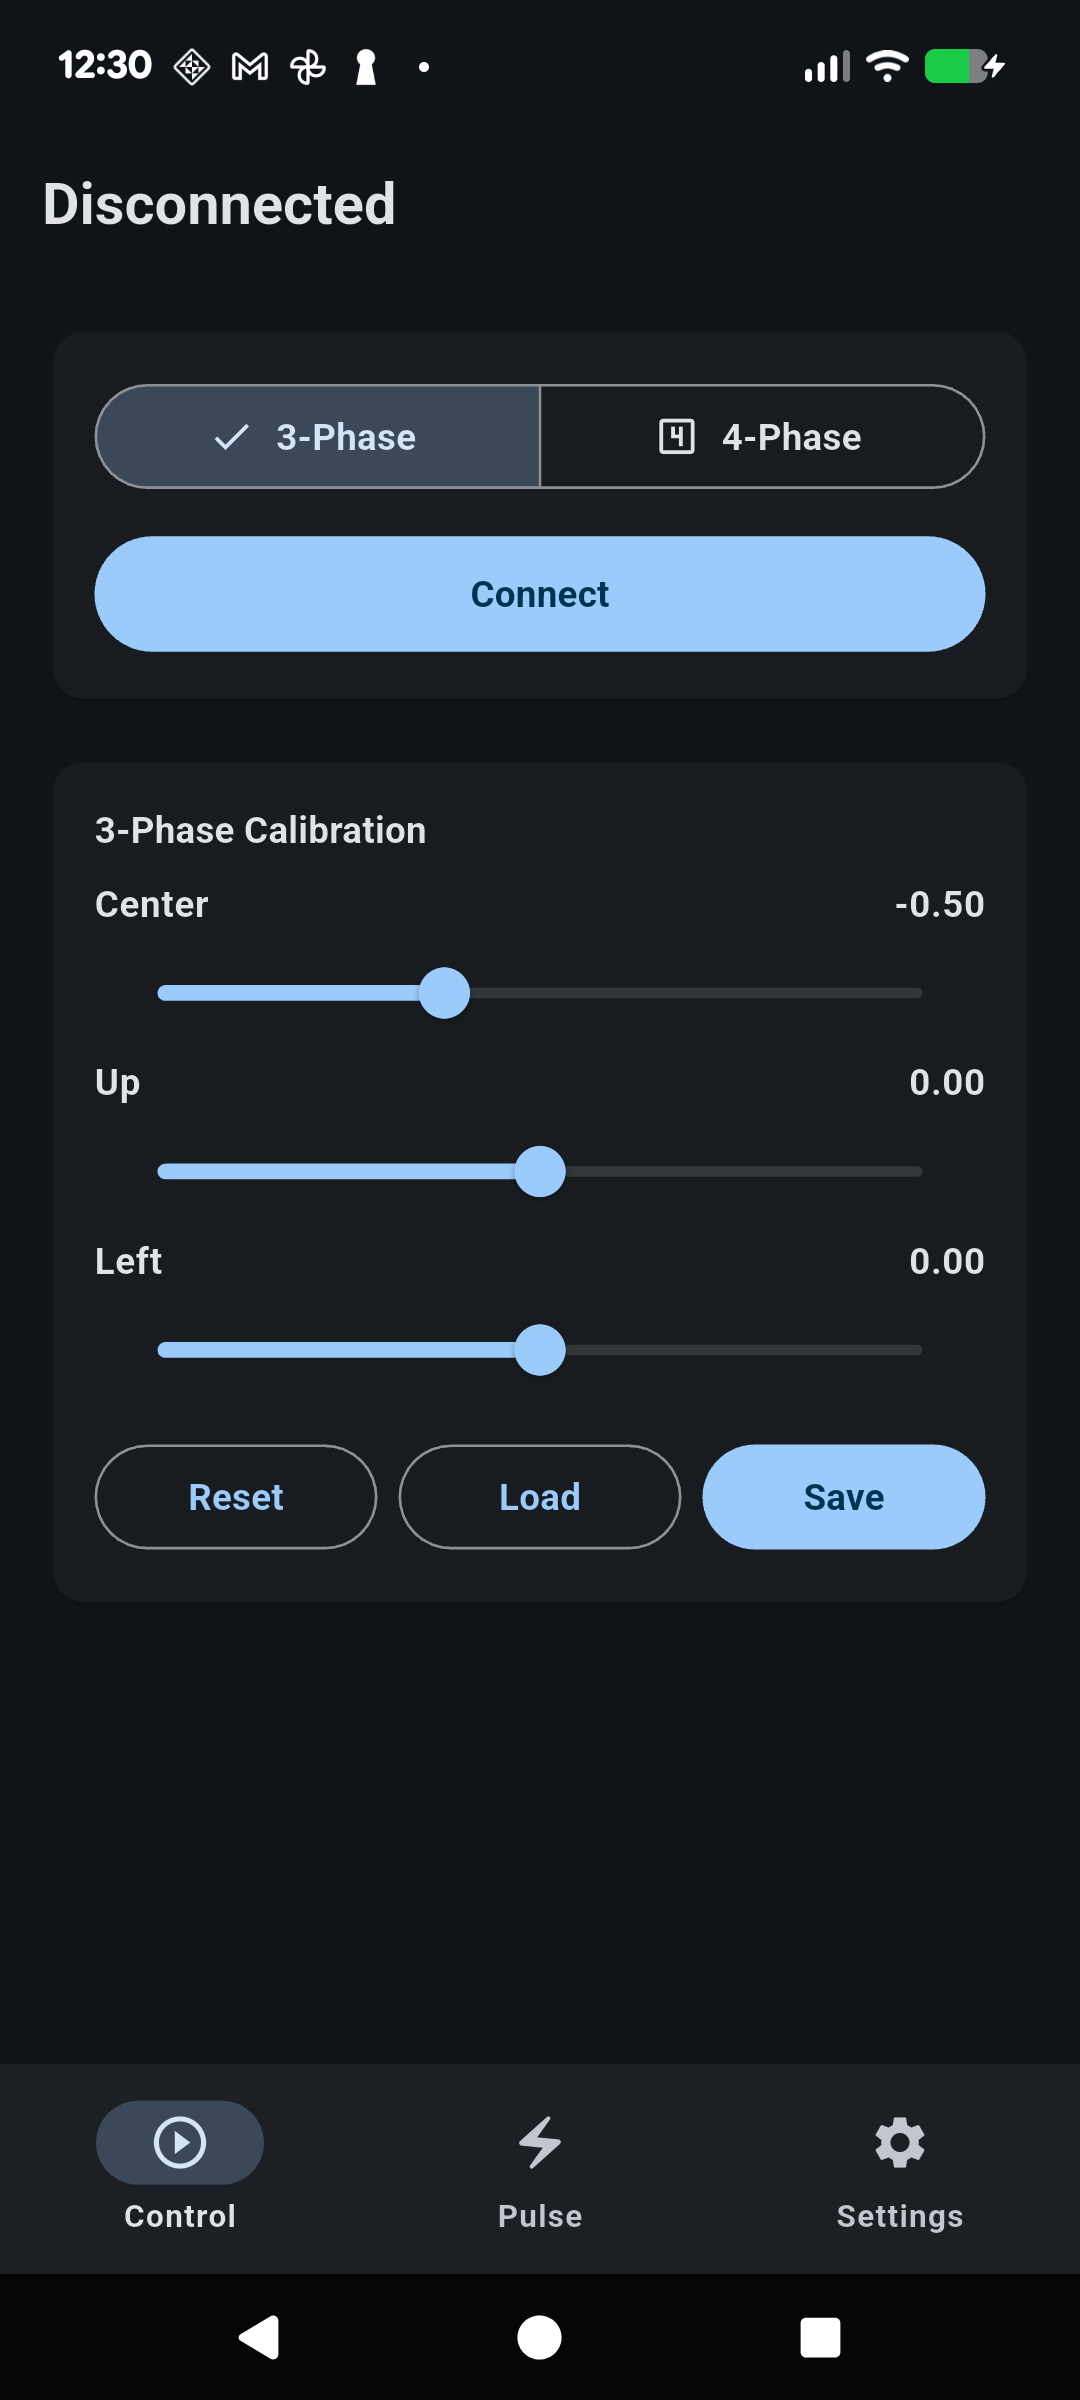
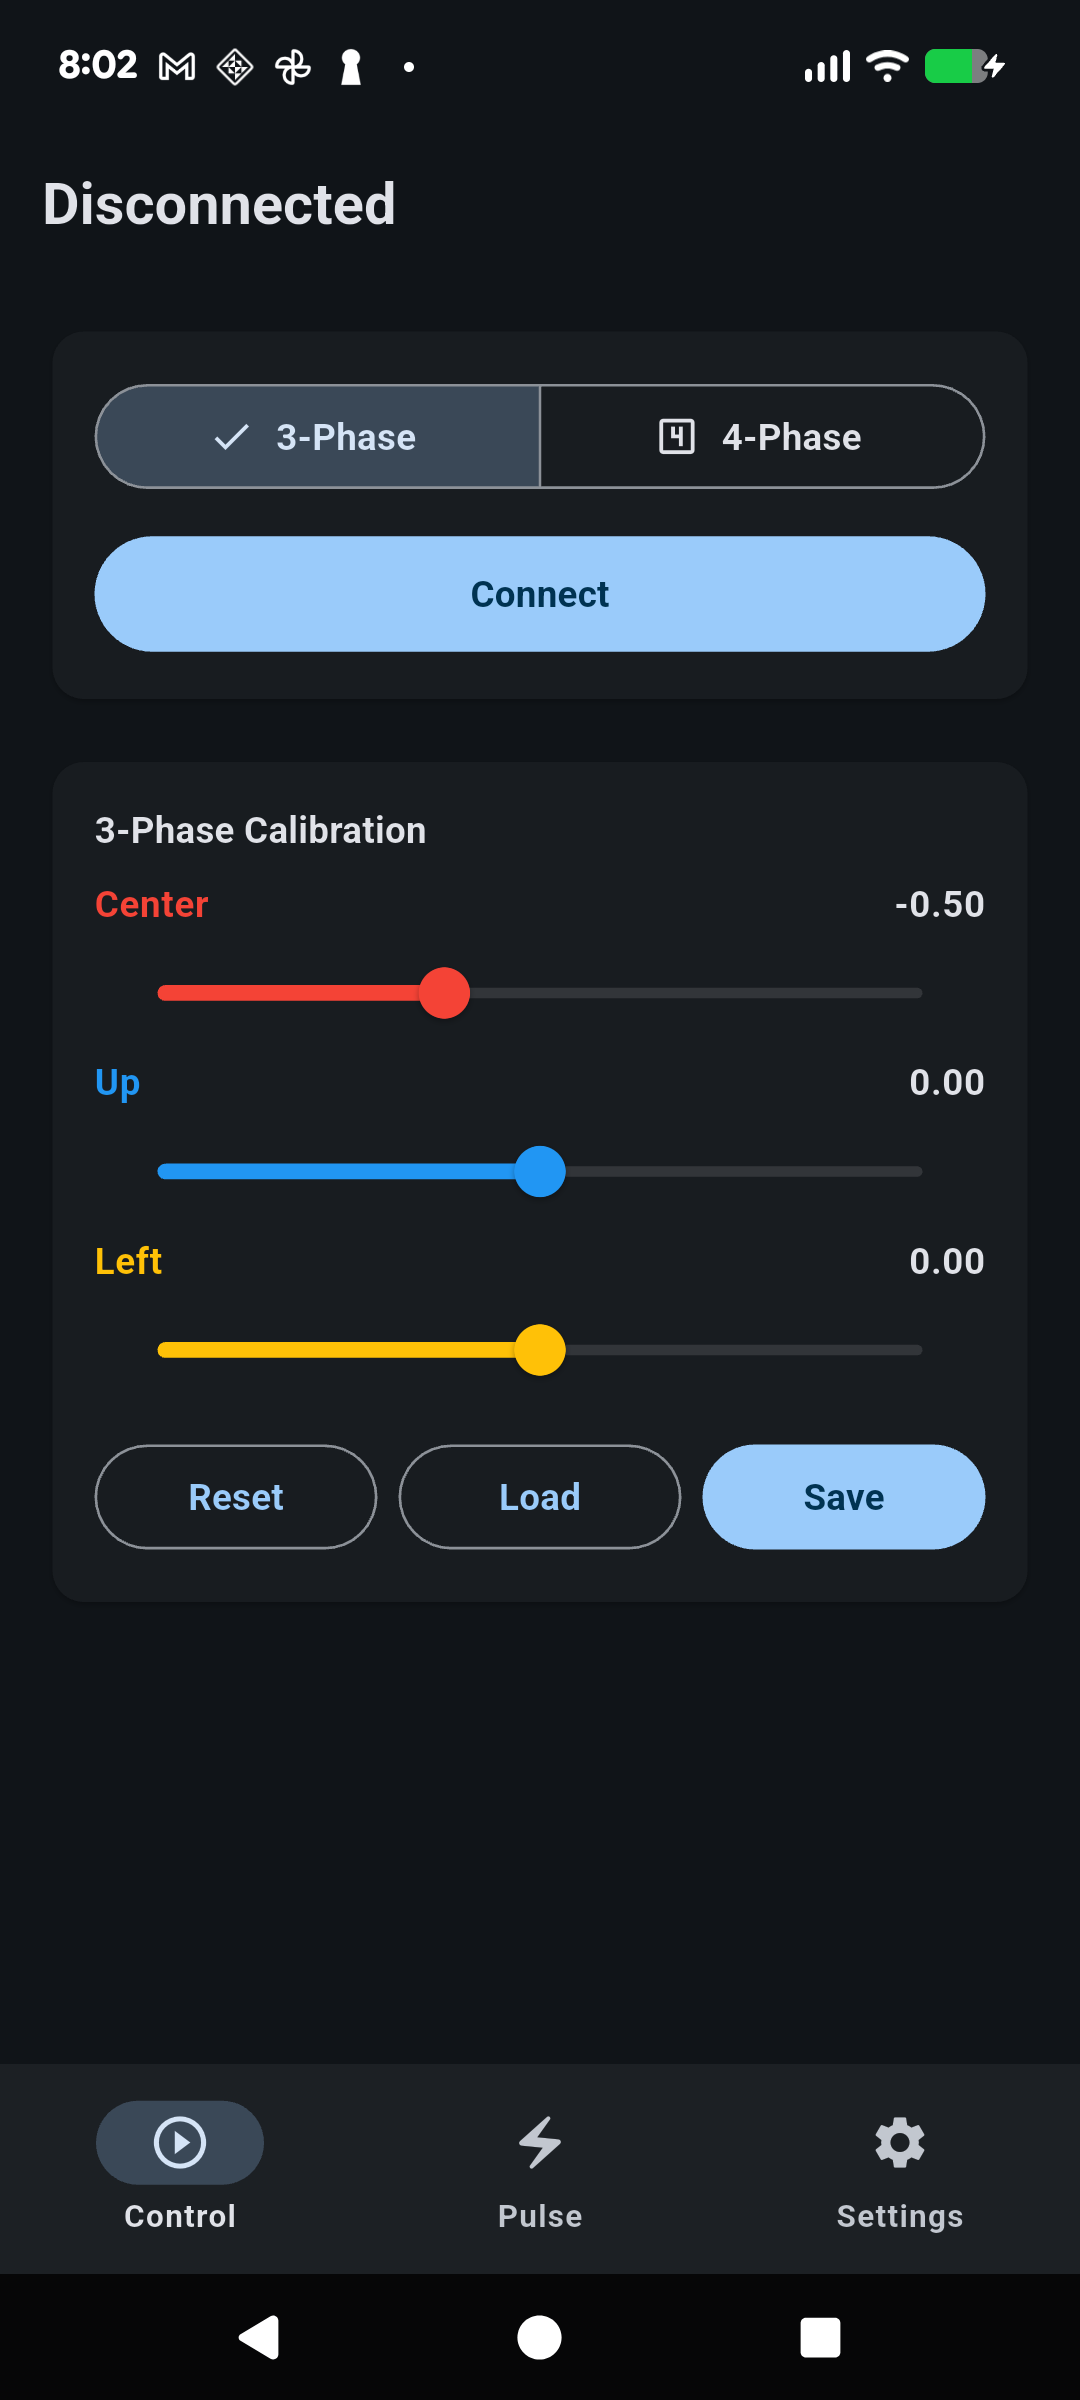
feat: color-code calibration output labels to match FOC hardware (A-Red, B-Blue, C-Yellow, D-Green); bump version to 1.1.1

diff --git a/foc-companion/lib/screens/device_settings_screen.dart b/foc-companion/lib/screens/device_settings_screen.dart
@@ -29,6 +29,7 @@ class _DeviceSettingsScreenState extends State<DeviceSettingsScreen> {
             min: -2,
             max: 2,
             onChanged: (v) => setState(() => d.calibration3Center = v),
+            color: Colors.red,
           ),
           _buildSlider(
             label: "Up",
@@ -36,6 +37,7 @@ class _DeviceSettingsScreenState extends State<DeviceSettingsScreen> {
             min: -2,
             max: 2,
             onChanged: (v) => setState(() => d.calibration3Up = v),
+            color: Colors.blue,
           ),
           _buildSlider(
             label: "Left",
@@ -43,6 +45,7 @@ class _DeviceSettingsScreenState extends State<DeviceSettingsScreen> {
             min: -2,
             max: 2,
             onChanged: (v) => setState(() => d.calibration3Left = v),
+            color: Colors.amber,
           ),
         ] else ...[
           const Text("4-Phase Calibration",
@@ -61,6 +64,7 @@ class _DeviceSettingsScreenState extends State<DeviceSettingsScreen> {
             min: -2,
             max: 2,
             onChanged: (v) => setState(() => d.calibration4A = v),
+            color: Colors.red,
           ),
           _buildSlider(
             label: "Electrode B",
@@ -68,6 +72,7 @@ class _DeviceSettingsScreenState extends State<DeviceSettingsScreen> {
             min: -2,
             max: 2,
             onChanged: (v) => setState(() => d.calibration4B = v),
+            color: Colors.blue,
           ),
           _buildSlider(
             label: "Electrode C",
@@ -75,6 +80,7 @@ class _DeviceSettingsScreenState extends State<DeviceSettingsScreen> {
             min: -2,
             max: 2,
             onChanged: (v) => setState(() => d.calibration4C = v),
+            color: Colors.amber,
           ),
           _buildSlider(
             label: "Electrode D",
@@ -82,6 +88,7 @@ class _DeviceSettingsScreenState extends State<DeviceSettingsScreen> {
             min: -2,
             max: 2,
             onChanged: (v) => setState(() => d.calibration4D = v),
+            color: Colors.green,
           ),
         ],
 
@@ -141,23 +148,39 @@ class _DeviceSettingsScreenState extends State<DeviceSettingsScreen> {
     required double min,
     required double max,
     required Function(double) onChanged,
+    Color? color,
   }) {
+    final slider = Slider(
+      value: value.clamp(min, max),
+      min: min,
+      max: max,
+      onChanged: onChanged,
+    );
     return Column(
       crossAxisAlignment: CrossAxisAlignment.start,
       children: [
         Row(
           mainAxisAlignment: MainAxisAlignment.spaceBetween,
           children: [
-            Text(label),
+            Text(
+              label,
+              style: color != null
+                  ? TextStyle(color: color, fontWeight: FontWeight.w500)
+                  : null,
+            ),
             Text(value.toStringAsFixed(2)),
           ],
         ),
-        Slider(
-          value: value.clamp(min, max),
-          min: min,
-          max: max,
-          onChanged: onChanged,
-        ),
+        color != null
+            ? SliderTheme(
+                data: SliderTheme.of(context).copyWith(
+                  activeTrackColor: color,
+                  thumbColor: color,
+                  overlayColor: color.withAlpha(30),
+                ),
+                child: slider,
+              )
+            : slider,
       ],
     );
   }

diff --git a/foc-companion/lib/screens/control_screen.dart b/foc-companion/lib/screens/control_screen.dart
@@ -79,14 +79,14 @@ class _CalibrationCardState extends State<_CalibrationCard> {
             const SizedBox(height: 8),
             if (is4Phase) ...[
               _buildSlider('Center', d.calibration4Center, (v) => d.calibration4Center = v),
-              _buildSlider('Electrode A', d.calibration4A, (v) => d.calibration4A = v),
-              _buildSlider('Electrode B', d.calibration4B, (v) => d.calibration4B = v),
-              _buildSlider('Electrode C', d.calibration4C, (v) => d.calibration4C = v),
-              _buildSlider('Electrode D', d.calibration4D, (v) => d.calibration4D = v),
+              _buildSlider('Electrode A', d.calibration4A, (v) => d.calibration4A = v, color: Colors.red),
+              _buildSlider('Electrode B', d.calibration4B, (v) => d.calibration4B = v, color: Colors.blue),
+              _buildSlider('Electrode C', d.calibration4C, (v) => d.calibration4C = v, color: Colors.amber),
+              _buildSlider('Electrode D', d.calibration4D, (v) => d.calibration4D = v, color: Colors.green),
             ] else ...[
-              _buildSlider('Center', d.calibration3Center, (v) => d.calibration3Center = v),
-              _buildSlider('Up', d.calibration3Up, (v) => d.calibration3Up = v),
-              _buildSlider('Left', d.calibration3Left, (v) => d.calibration3Left = v),
+              _buildSlider('Center', d.calibration3Center, (v) => d.calibration3Center = v, color: Colors.red),
+              _buildSlider('Up', d.calibration3Up, (v) => d.calibration3Up = v, color: Colors.blue),
+              _buildSlider('Left', d.calibration3Left, (v) => d.calibration3Left = v, color: Colors.amber),
             ],
             const SizedBox(height: 8),
             Row(
@@ -140,23 +140,39 @@ class _CalibrationCardState extends State<_CalibrationCard> {
     );
   }
 
-  Widget _buildSlider(String label, double value, void Function(double) onSet) {
+  Widget _buildSlider(String label, double value, void Function(double) onSet,
+      {Color? color}) {
+    final slider = Slider(
+      value: value.clamp(-2.0, 2.0),
+      min: -2,
+      max: 2,
+      onChanged: (v) => setState(() => onSet(v)),
+    );
     return Column(
       crossAxisAlignment: CrossAxisAlignment.start,
       children: [
         Row(
           mainAxisAlignment: MainAxisAlignment.spaceBetween,
           children: [
-            Text(label),
+            Text(
+              label,
+              style: color != null
+                  ? TextStyle(color: color, fontWeight: FontWeight.w500)
+                  : null,
+            ),
             Text(value.toStringAsFixed(2)),
           ],
         ),
-        Slider(
-          value: value.clamp(-2.0, 2.0),
-          min: -2,
-          max: 2,
-          onChanged: (v) => setState(() => onSet(v)),
-        ),
+        color != null
+            ? SliderTheme(
+                data: SliderTheme.of(context).copyWith(
+                  activeTrackColor: color,
+                  thumbColor: color,
+                  overlayColor: color.withAlpha(30),
+                ),
+                child: slider,
+              )
+            : slider,
       ],
     );
   }
